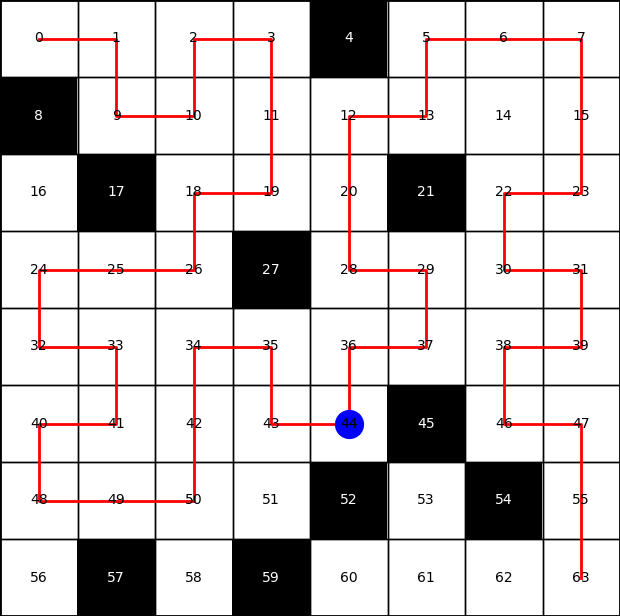
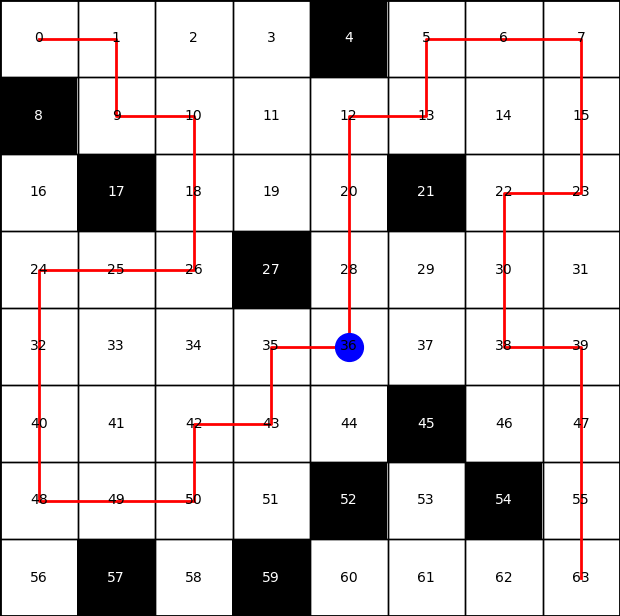
snake in grids

diff --git a/src/main.py b/src/main.py
@@ -22,13 +22,13 @@ from utils.utils import *
 # Define default input values
 # --date 4_8_24 --number_of_graphs 1 --graph_type grid --size_of_graphs 6 6 --run_uni
 DEFAULT_LOG = True                  # True # False
-DEFAULT_DATE = "mazes"              # "SM_Grids" / "cubes" / "mazes" / "Check_Sparse_Grids"
-DEFAULT_NUMBER_OF_GRAPHS = 3       # 10
-DEFAULT_GRAPH_TYPE = "maze"         # "grid" / "cube" / "manual" / "maze"
-DEFAULT_SIZE_OF_GRAPHS = [13,13]      # dimension of cube
-DEFAULT_PER_OF_BLOCKS = 4           # 4 / 8 / 12 / 16
+DEFAULT_DATE = "SM_Grids"              # "SM_Grids" / "cubes" / "mazes" / "Check_Sparse_Grids"
+DEFAULT_NUMBER_OF_GRAPHS = 10       # 10
+DEFAULT_GRAPH_TYPE = "grid"         # "grid" / "cube" / "manual" / "maze"
+DEFAULT_SIZE_OF_GRAPHS = [8,8]      # dimension of cube
+DEFAULT_PER_OF_BLOCKS = 16           # 4 / 8 / 12 / 16
 DEFAULT_HEURISTIC = "bcc_heuristic" # "bcc_heuristic" / "mis_heuristic" / "heuristic0" / "reachable_heuristic" / "bct_is_heuristic" /
-DEFAULT_SNAKE = False                # True # False
+DEFAULT_SNAKE = True                # True # False
 DEFAULT_RUN_UNI = True              # True # False
 DEFAULT_RUN_BI = True               # True # False
 DEFAULT_ALGO = "full"              # "basic" # "light" # "full"
